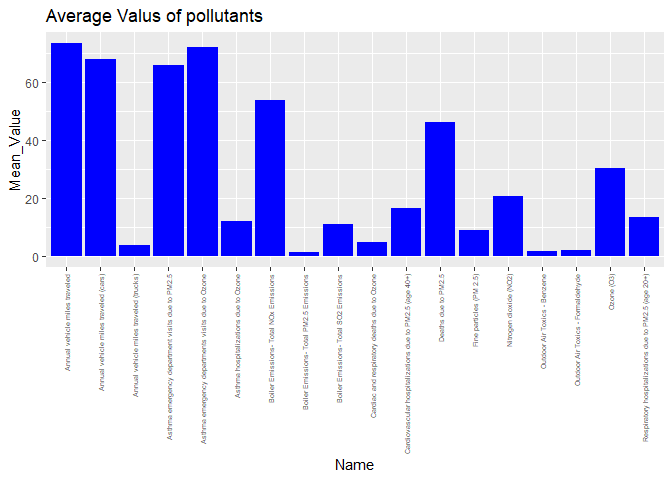
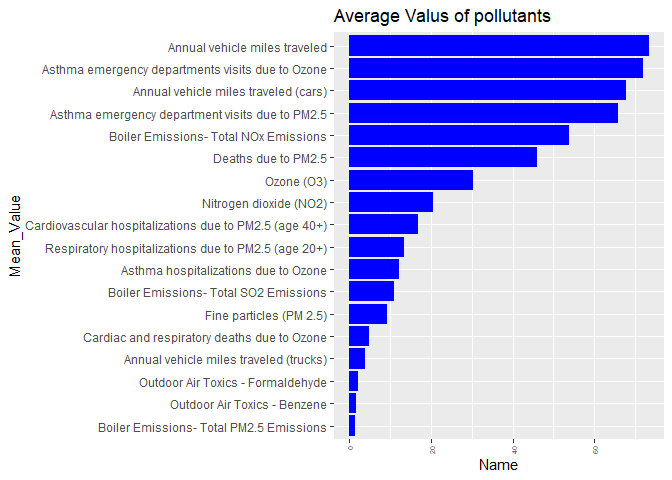
changes

diff --git a/Projects/Yue_Z9/solution-from-Yuguang.md b/Projects/Yue_Z9/solution-from-Yuguang.md
@@ -3,18 +3,6 @@
 ## Chart one data
 
     library(tidyverse)
-
-    ## ── Attaching core tidyverse packages ──────────────────────── tidyverse 2.0.0 ──
-    ## ✔ dplyr     1.1.4     ✔ readr     2.1.5
-    ## ✔ forcats   1.0.0     ✔ stringr   1.5.1
-    ## ✔ ggplot2   3.5.1     ✔ tibble    3.2.1
-    ## ✔ lubridate 1.9.3     ✔ tidyr     1.3.1
-    ## ✔ purrr     1.0.2     
-    ## ── Conflicts ────────────────────────────────────────── tidyverse_conflicts() ──
-    ## ✖ dplyr::filter() masks stats::filter()
-    ## ✖ dplyr::lag()    masks stats::lag()
-    ## ℹ Use the conflicted package (<http://conflicted.r-lib.org/>) to force all conflicts to become errors
-
     data <- read.csv("https://data.cityofnewyork.us/api/views/c3uy-2p5r/rows.csv?accessType=DOWNLOAD")
     # Data manipulation for first graph.
     data_task1 <- data |>
@@ -26,7 +14,7 @@
 ## Chart one
 
     # visualization for first graph
-    ggplot(data_task1, aes(x = Name, y = Mean_value))+
+    ggplot(data_task1, aes(x = Mean_value, y = reorder(Name, Mean_value)))+
       geom_bar(stat = "identity", show.legend = TRUE, fill = "blue")+
       labs(
         title = "Average Valus of pollutants",
@@ -43,14 +31,14 @@
 
     #data manipulation for second task
 
-    #In this part, data_pollutant is to store a data set, which only include the name, so that i can see the name, i know it is a bit silly...
     data_pollutant <- data |>
       mutate(Year = year(dmy(Start_Date))) |>
       group_by(Name) |>
       summarise(Max_value = max(Data.Value, na.rm = TRUE), .groups = "drop") |>
       arrange(desc(Max_value)) |>
       slice_head(n = 1) |>
-      pull(Name)
+      pull(Name)|>
+      view()
     #This data_region is also to store a data set, which contains only three Geo.Place.Name
     data_region <- data |>
       filter(Name == data_pollutant) |>
@@ -74,13 +62,15 @@
     #visualization.
     ggplot(data_task2, aes(x = Year, y = Data.Value, color = factor(Geo.Place.Name)))+
       geom_line()+
-      scale_x_continuous(breaks = seq(min(data_task2$Year), max(data_task2$Year), by = 1))+
+      scale_x_continuous(breaks = unique(data_task2$Year))+
       labs(
         x = "Year",
         y = "Value (mcg/m3)",
-        color = "region"
+        color = "region",
+        title = paste("Time series of ", data_pollutant, "for Top 3 regions")
       )+
       theme(
+        plot.title = element_text(size = 8)
       )
 
 ![](solution-from-Yuguang_files/figure-markdown_strict/chart_two-1.png)
